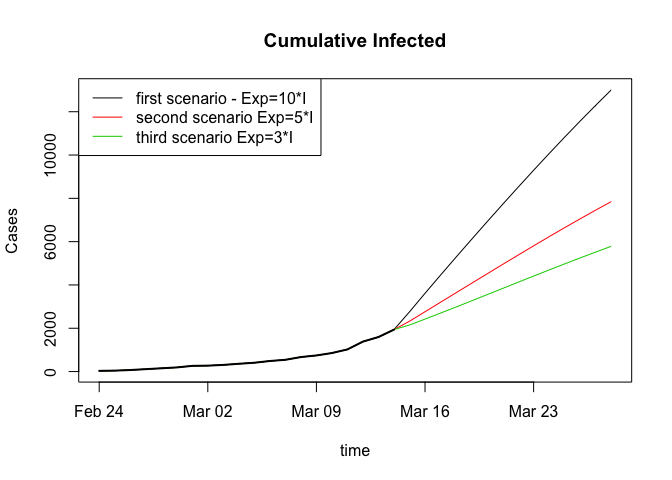
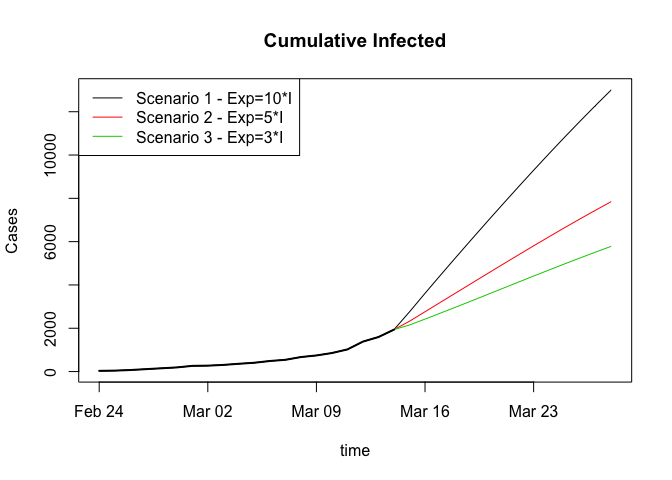
Add home page, navigation and theme

Changed region(s): [[0.1875, 0.1875, 0.4688, 0.3125]]

diff --git a/draft_analysis_Veneto.md b/draft_analysis_Veneto.md
@@ -18,7 +18,7 @@ dat_csv<-read.csv("https://raw.githubusercontent.com/pcm-dpc/COVID-19/master/dat
 #we restricted the analysis to the Veneto Region
 dat_csv<-dat_csv[dat_csv$codice_regione==5,]
 dat_csv$t<-1:dim(dat_csv)[1]
-plot(as.Date(substr(dat_csv$data,1,10)),dat_csv$totale_attualmente_positivi,ylab="Now infected",xlab="Date",type="l")
+plot(as.Date(substr(dat_csv$data,1,10)),dat_csv$totale_attualmente_positivi,ylab=" Infected",xlab="Date",type="l")
 points(as.Date(substr(dat_csv$data,1,10)),dat_csv$totale_attualmente_positivi)
 ```
 
@@ -274,7 +274,7 @@ plot(date,c(dat_csv$totale_attualmente_positivi,seir1$I*N),type="l",ylab="Cases"
 lines(date,c(dat_csv$totale_attualmente_positivi,seir2$I*N),col=2)
 lines(date,c(dat_csv$totale_attualmente_positivi,seir3$I*N),col=3)
 lines(date[1:dim(dat_csv)[1]],dat_csv$totale_attualmente_positivi,lwd=2)
-legend("topleft",c("first scenario - Exp=10*I","second scenario Exp=5*I","third scenario Exp=3*I"),lty=1,col=1:3)
+legend("topleft",c("Scenario 1 - Exp=10*I","Scenario - Exp=5*I","Scenario - Exp=3*I"),lty=1,col=1:3)
 ```
 
 ![](draft_analysis_Veneto_files/figure-gfm/scenario%20plot-1.png)<!-- -->
@@ -293,7 +293,7 @@ plot(date,c(dat_csv$totale_casi,(seir1$I+seir1$R)*N),type="l",ylab="Cases",xlab=
 lines(date,c(dat_csv$totale_casi,(seir2$I+seir2$R)*N),col=2)
 lines(date,c(dat_csv$totale_casi,(seir3$I+seir3$R)*N),col=3)
 lines(date[1:dim(dat_csv)[1]],(dat_csv$totale_casi),lwd=2)
-legend("topleft",c("first scenario - Exp=10*I","second scenario Exp=5*I","third scenario Exp=3*I"),lty=1,col=1:3)
+legend("topleft",c("Scenario 1 - Exp=10*I","Scenario 2 - Exp=5*I","Scenario 3 - Exp=3*I"),lty=1,col=1:3)
 ```
 
 ![](draft_analysis_Veneto_files/figure-gfm/cumulative%20plot-1.png)<!-- -->
